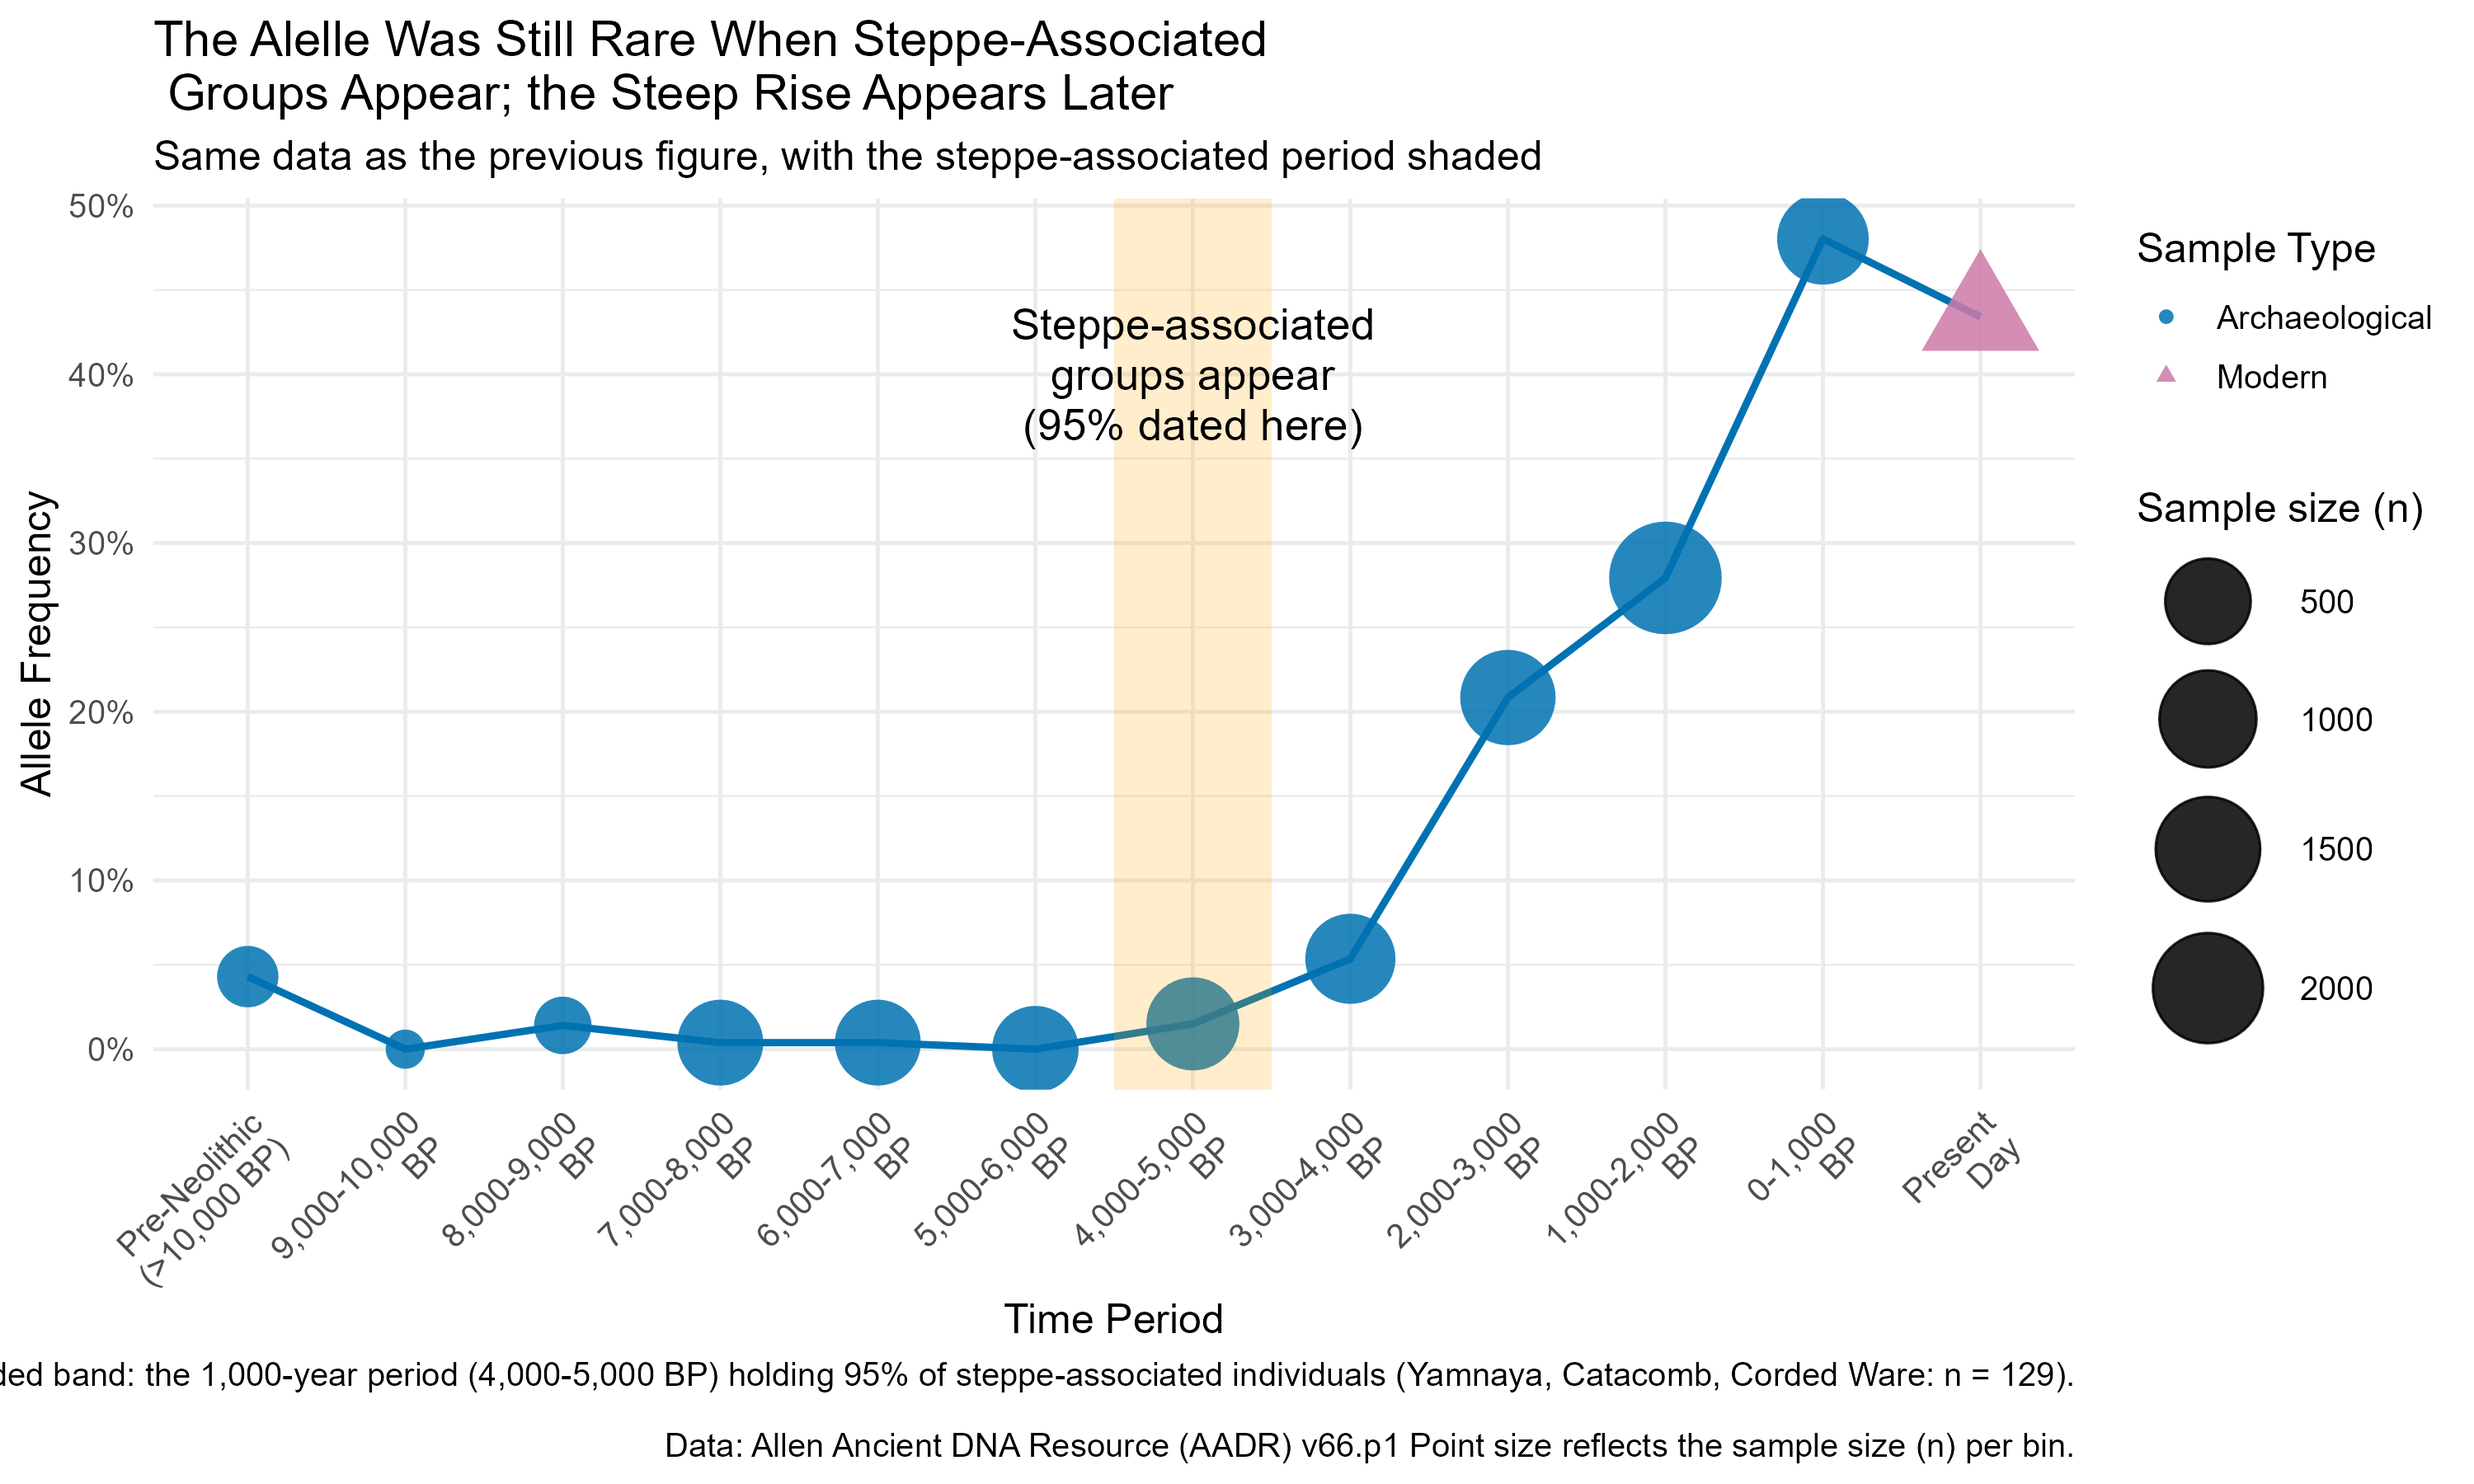
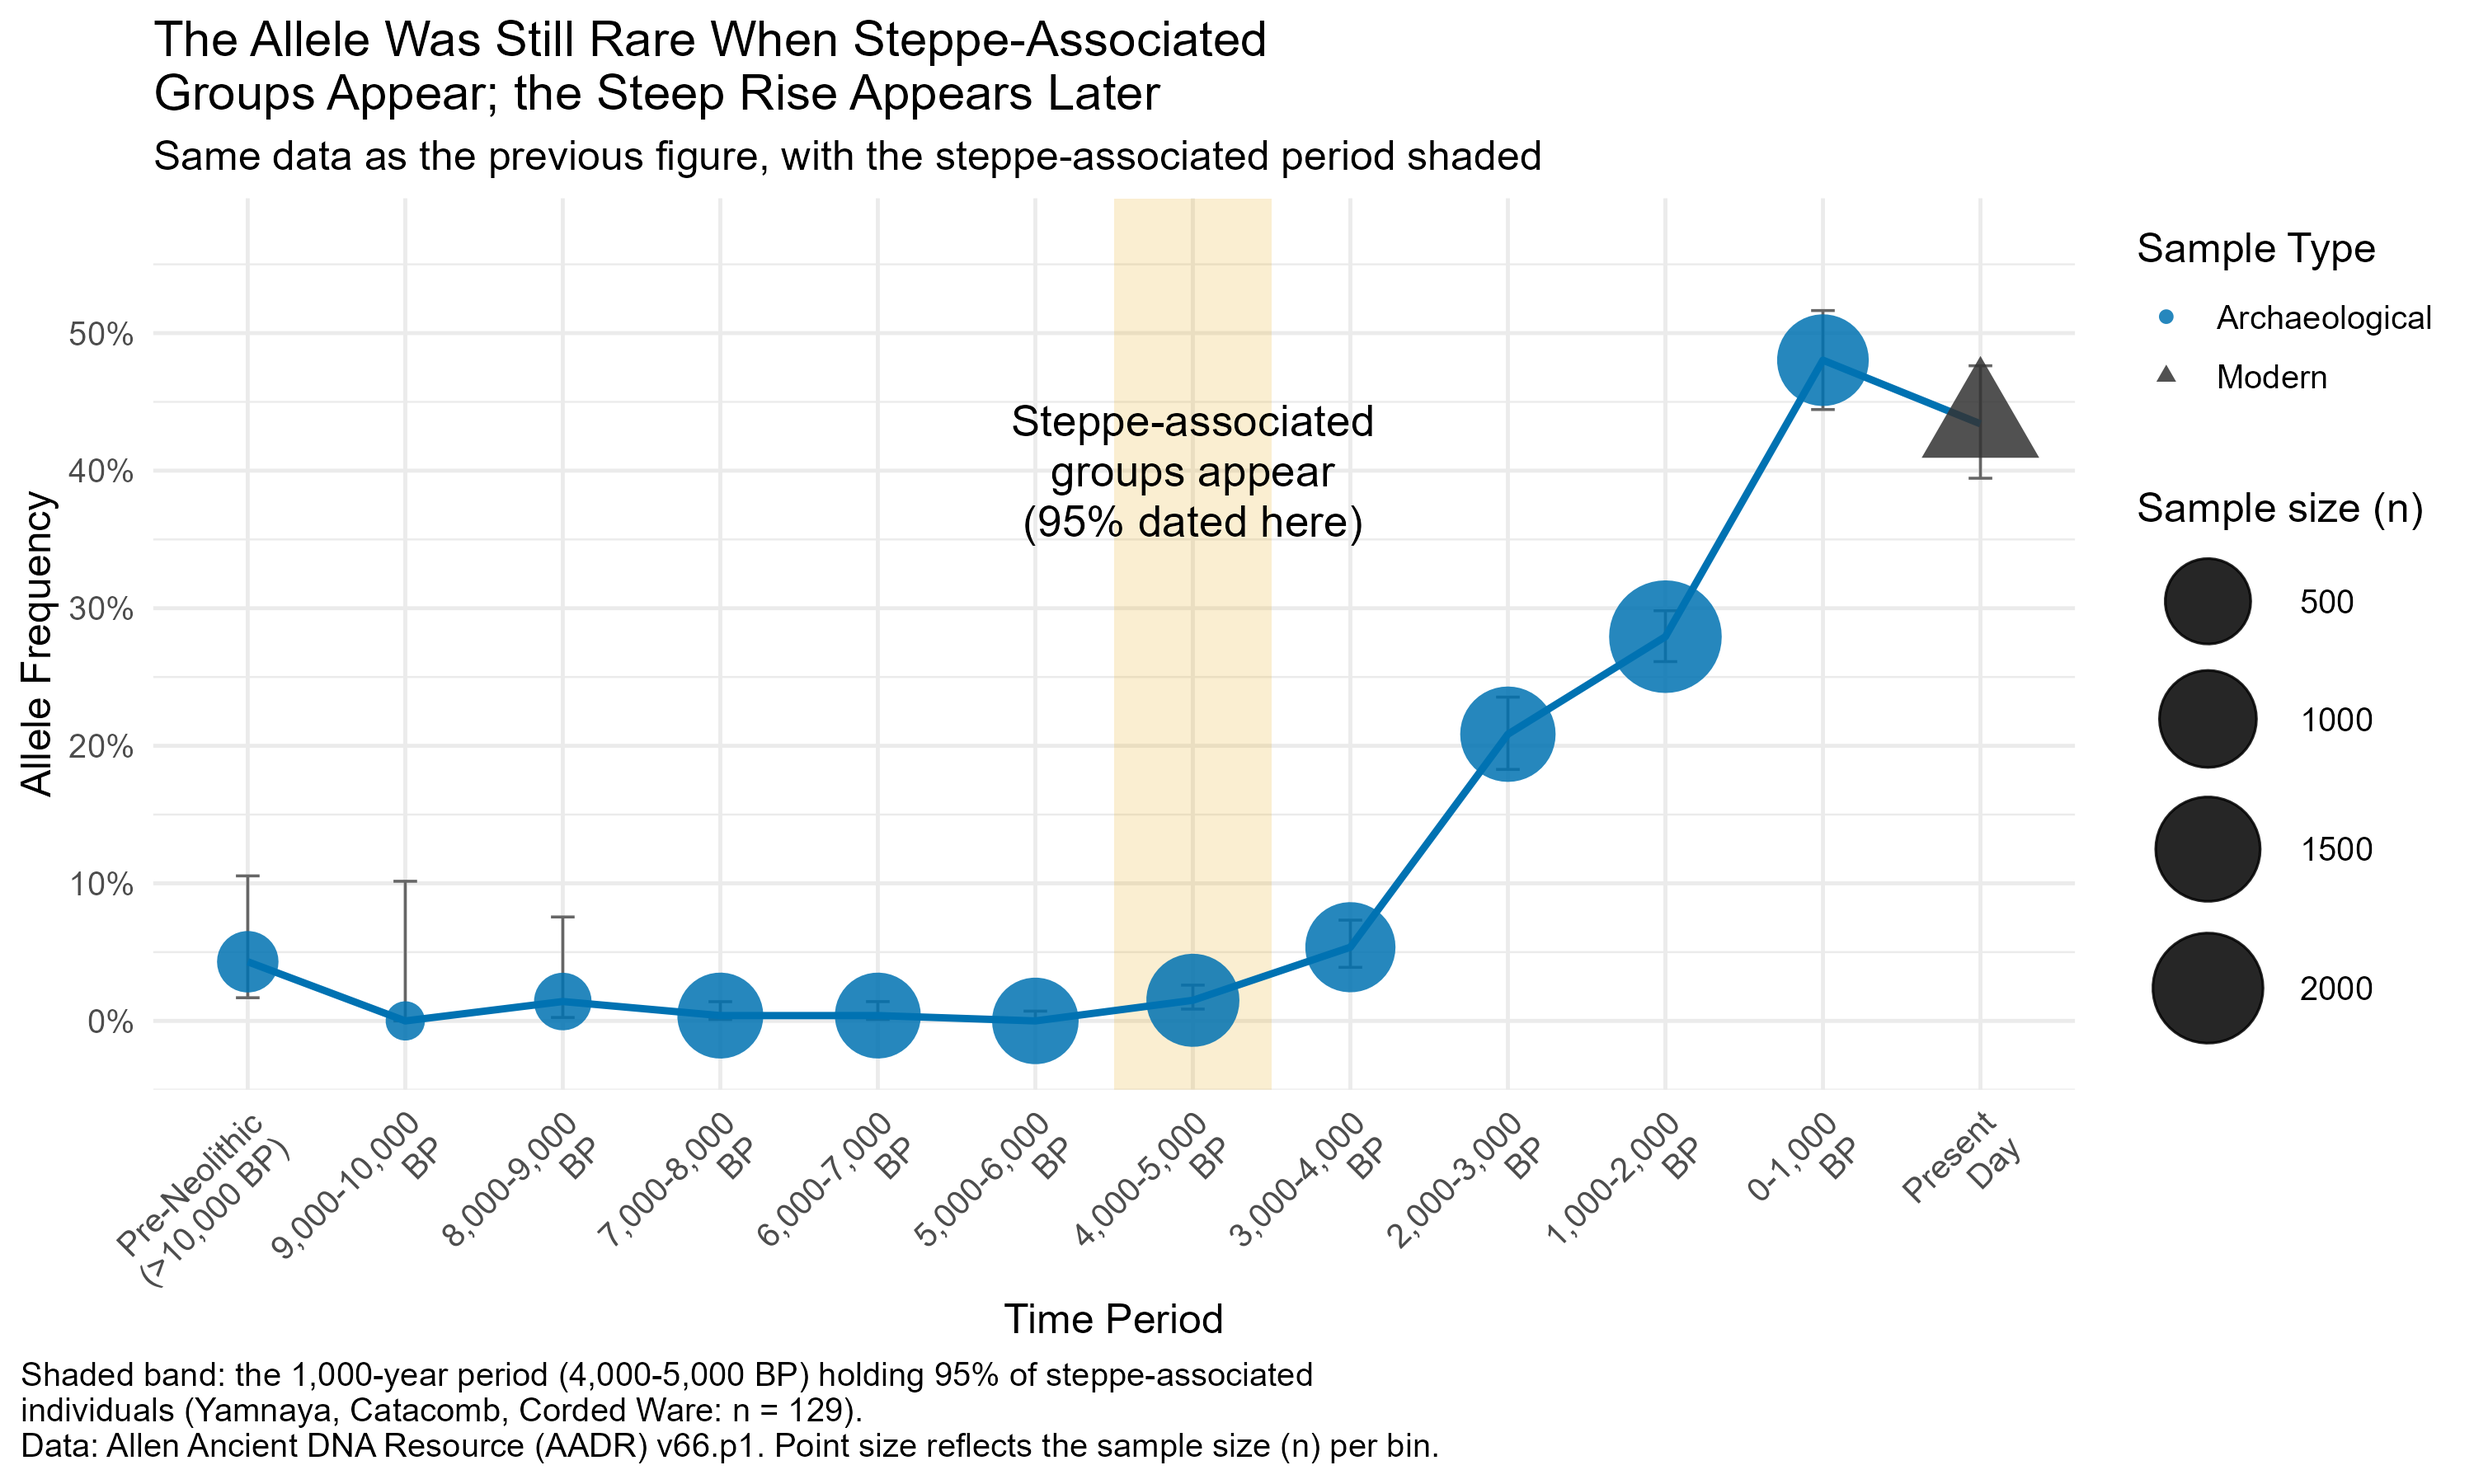
Final images and code, notes updated

diff --git a/AI_USAGE.md b/AI_USAGE.md
@@ -489,3 +489,46 @@ site_period$carrier_found <- factor(ifelse(site_period$carriers > 0,
                                            "Carrier found", "No carrier found"),
                                     levels = c("No carrier found", "Carrier found"))
 ```
+## Entry 7: 
+- **Tool:** Claude (Sonnet 5.5)
+- **What I was doing:** I asked if Claude could write me a script to add error bars to the time series (Q1 Plot1) chart. 
+- **Output:**
+```r
+# 95% Wilson ranges per bin. Each person counts as one allele read (pseudohaploid),
+# so the sample size for uncertainty is n individuals, not 2n
+k_bin  <- round(freq_by_bin_full$freq * freq_by_bin_full$n)   # carriers per bin
+ci_bin <- t(mapply(function(k, n) suppressWarnings(prop.test(k, n, correct = FALSE)$conf.int),
+                   k_bin, freq_by_bin_full$n))
+freq_by_bin_full$lower <- ci_bin[, 1]
+freq_by_bin_full$upper <- ci_bin[, 2]
+freq_by_bin_full[, c("bp_bin", "n", "freq", "lower", "upper")]   # check: lower < freq < upper everywhere
+```
+
+## Entry 8:
+- **Tool:** Claude (Sonnet 5.5)
+- **What I was doing:** I pasted my final code to Claude for a quick code hygiene check and final test before considering my plots finished with a summary of the changes I had made and what it was looking like before.
+- **Output:**
+```r
+This is exactly what the final restart-and-run test is for.
+
+The rest of your cleaned script looks right to me. The libraries and `dir.create` are at the top, the dead code is gone, the sections are in a sensible order, the error bars are in, and the Modern triangle is `#333333`. I haven't run any of it.
+
+**One more thing.** The Belgium check (lines 167–170) still only prints a table of countries. The "44.3% without Belgium vs 48%" numbers exist only in a comment, so the script can't reproduce them. Add this right after line 168:
+
+```r
+# Frequency of the 0-1,000 BP bin with and without Belgium, next to the modern value
+last_bin   <- ancient[ancient$bp_bin == "0", ]
+no_belgium <- last_bin[last_bin$political_entity != "Belgium", ]
+round(c(with_Belgium    = sum(last_bin$A_count)   / (2 * nrow(last_bin)),
+        without_Belgium = sum(no_belgium$A_count) / (2 * nrow(no_belgium)),
+        modern          = modern_freq), 3)
+```
+
+You should see about 0.480, 0.443 and 0.434, matching what we found earlier. If you see different numbers, tell me.
+
+**Final test.** After these three edits:
+1. In RStudio, go to **Session → Restart R**. This clears everything, so the script can't lean on leftover objects.
+2. Click **Source** (top right of the script window), or press Ctrl+Shift+S, so the whole script runs from the top.
+3. Check that there are no red errors and that the four PNGs in `figures/` have a new modification time. Then open them and look at each.
+
+Send me any error text or the screenshots of the new Figures 1 and 4, and then we can commit.
